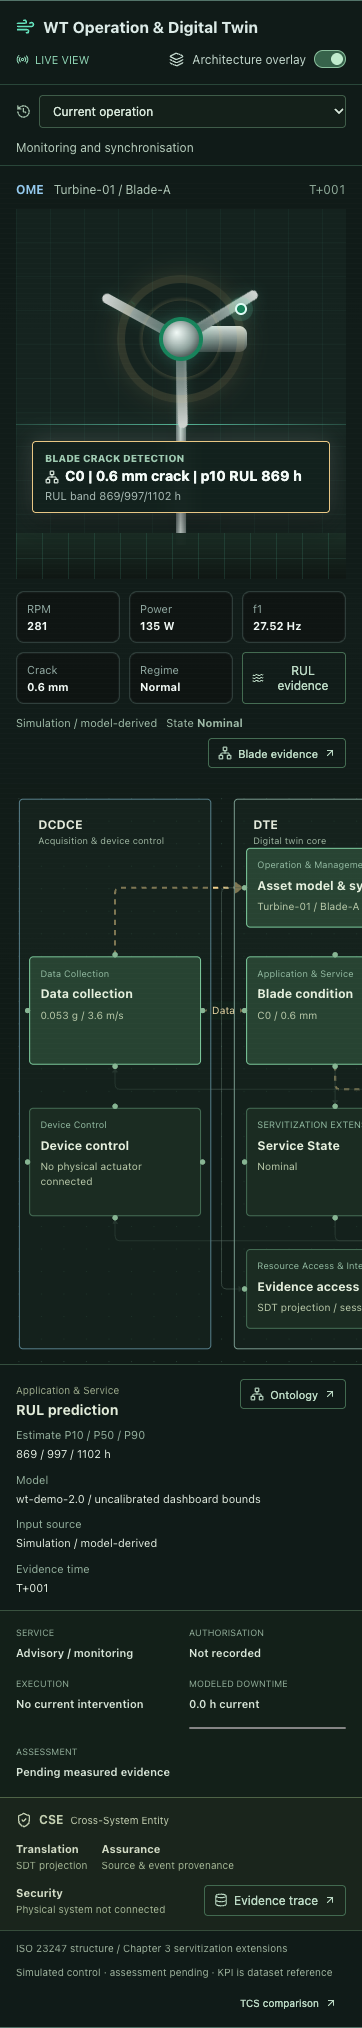
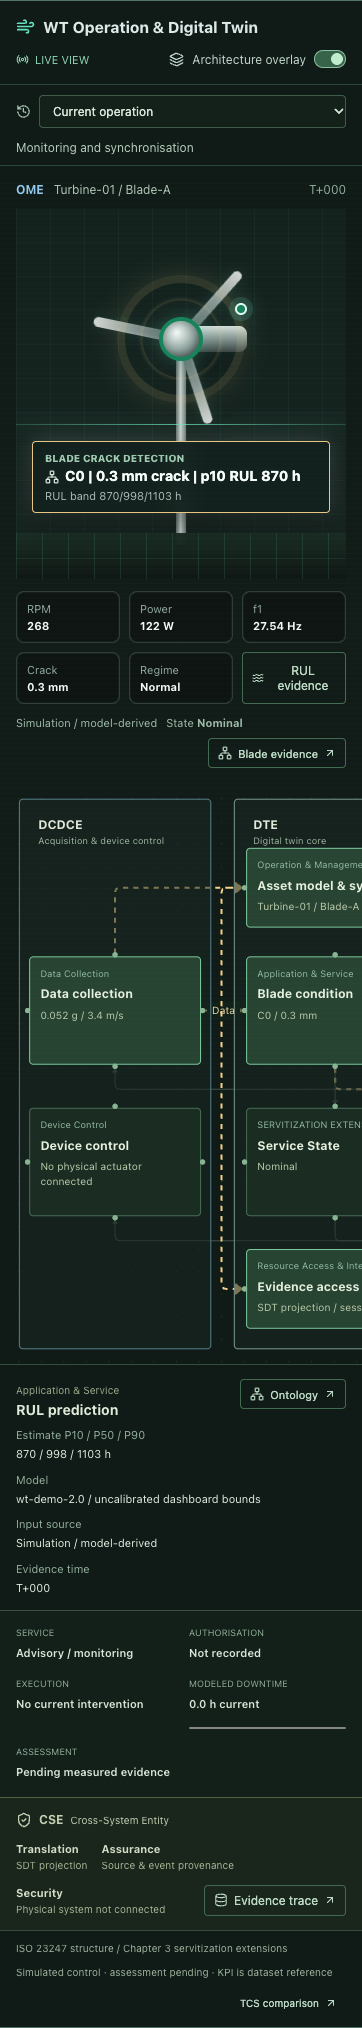
fix: preserve DT framework visibility through continuous turbine cycles
Retain controlled ReactFlow measurements, keep framework visible by default, and preserve monitoring links through decisions, downtime and post-service refresh. Verify actual node visibility and animated edges across two completed cycles on both routes; record root cause and regression screenshots.

diff --git a/src/twin/TwinWorkspace.tsx b/src/twin/TwinWorkspace.tsx
@@ -1,8 +1,8 @@
 import { useEffect, useMemo, useState, type ReactNode } from 'react';
-import ReactFlow, { Background, Handle, MarkerType, Position, type NodeProps, type Edge, type Node } from 'reactflow';
+import ReactFlow, { Background, Handle, MarkerType, Position, useNodesState, type NodeProps, type Edge, type Node } from 'reactflow';
 import { ArrowUpRight, ChevronLeft, ChevronRight, Database, History, Layers, Network, Pause, Play, Radio, RotateCcw, ShieldCheck, Wind } from 'lucide-react';
 import { evidenceSource, type OntologyExecution, type OntologySnapshot } from '../ontology/model';
-import { activeModules, architectureModules, moduleValue, replayFrames, stageLabel, workflowStage, type ArchitectureModule, type ModuleId, type ReplayFrame } from './model';
+import { activeConnections, activeModules, architectureModules, moduleValue, replayFrames, stageLabel, workflowStage, type ArchitectureModule, type ModuleId, type ReplayFrame } from './model';
 import './twin.css';
 
 export type ReplayRequest = { id: number; eventId: string };
@@ -60,11 +60,12 @@ export default function TwinWorkspace({ snapshot, executions, activeExecution, r
   onOntology: (node: string, eventId: string, snapshot?: OntologySnapshot, execution?: OntologyExecution) => void;
   onCosts: () => void;
 }) {
-  const [overlay, setOverlay] = useState(false);
+  const [overlay, setOverlay] = useState(true);
   const [selected, setSelected] = useState<ModuleId>('condition');
   const [replay, setReplay] = useState<OntologyExecution | null>(null);
   const [frameIndex, setFrameIndex] = useState(0);
   const [playing, setPlaying] = useState(false);
+  const [nodes, setNodes, onNodesChange] = useNodesState([]);
   const frames = useMemo(() => replay ? replayFrames(replay) : [], [replay]);
   function startReplay(event: OntologyExecution) {
     setReplay(structuredClone(event));
@@ -94,10 +95,11 @@ export default function TwinWorkspace({ snapshot, executions, activeExecution, r
   // During an intervention, its proposal stays anchored to the captured pre-service evidence.
   const decisionView = event && (stage === 'downtime' || stage === 'result') ? event.before : view;
   const active = activeModules(stage);
+  const connections = activeConnections(stage);
   const selection = architectureModules.find((module) => module.id === selected)!;
   const decisionModule = ['tcs', 'recommendation'].includes(selected);
   const inspected = decisionModule ? decisionView : view;
-  const progressH = frame?.elapsedH ?? activeExecution?.progress?.elapsedH ?? 0;
+  const progressH = frame?.elapsedH ?? event?.progress?.elapsedH ?? 0;
   const progress = event ? Math.min(100, (progressH / Math.max(0.1, event.downtimeH)) * 100) : 0;
   const streaming = !replay && view.reading.source !== 'manual-input';
   function selectModule(id: ModuleId) { setSelected(id); setOverlay(true); }
@@ -105,23 +107,30 @@ export default function TwinWorkspace({ snapshot, executions, activeExecution, r
     const evidence = replay ? view : stage === 'result' ? event?.after : stage === 'downtime' ? event?.during?.[event.during.length - 1] : undefined;
     navigateOntology(node, event?.id ?? eventId, evidence, event ?? undefined);
   }
-  const nodes: Node[] = [
+  const renderedNodes = useMemo<Node[]>(() => [
     { id: 'dcdce', type: 'group', position: { x: 0, y: 0 }, data: { label: <div className="twin-zone-label"><b>DCDCE</b><span>Acquisition & device control</span></div> }, style: { width: 188, height: 538, borderColor: '#557d88' }, selectable: false, focusable: false },
     { id: 'dte', type: 'group', position: { x: 210, y: 0 }, data: { label: <div className="twin-zone-label"><b>DTE</b><span>Digital twin core</span></div> }, style: { width: 390, height: 538, borderColor: '#76978b' }, selectable: false, focusable: false },
     { id: 'ue', type: 'group', position: { x: 622, y: 0 }, data: { label: <div className="twin-zone-label"><b>UE</b><span>Service & contract interface</span></div> }, style: { width: 198, height: 538, borderColor: '#ad9568' }, selectable: false, focusable: false },
     ...architectureModules.map((module) => ({ id: module.id, type: 'module', parentNode: module.entity, extent: 'parent' as const, position: { x: module.x, y: module.y }, data: { module, value: moduleValue(module.id, ['tcs', 'recommendation'].includes(module.id) ? decisionView : view, event, stage), active: active.includes(module.id), selected: module.id === selected }, style: { width: module.width, height: module.height }, ariaLabel: `${module.title}, ${module.subEntity}` }))
-  ];
+  ], [view, decisionView, event, selected, stage]);
+  useEffect(() => {
+    // Live data replaces node definitions; retain ReactFlow's measured dimensions.
+    setNodes((current) => {
+      const measured = new Map(current.map((node) => [node.id, node]));
+      return renderedNodes.map((node) => ({ ...node, width: measured.get(node.id)?.width, height: measured.get(node.id)?.height }));
+    });
+  }, [renderedNodes, setNodes]);
   const edges: Edge[] = relations.map(([source, target, label, from, to], index) => {
-    const highlighted = active.includes(source) && active.includes(target);
+    const highlighted = connections.some(([from, to]) => from === source && to === target);
     const pending = source === 'authorisation' || target === 'kpi';
-    return { id: `workflow-${index}`, source, target, sourceHandle: `source-${from}`, targetHandle: `target-${to}`, label: highlighted ? label : undefined, animated: highlighted && (streaming || playing), type: 'smoothstep', markerEnd: { type: MarkerType.ArrowClosed, color: highlighted ? '#f3d18b' : '#60776c' }, style: { stroke: highlighted ? '#f3d18b' : '#60776c', strokeWidth: highlighted ? 2 : 1, strokeDasharray: pending ? '4 4' : undefined, opacity: pending ? 0.4 : highlighted ? 1 : 0.45 }, labelStyle: { fill: '#e8d6a4', fontSize: 10 }, labelBgStyle: { fill: '#102019' }, labelBgPadding: [5, 3] };
+    return { id: `workflow-${index}`, source, target, sourceHandle: `source-${from}`, targetHandle: `target-${to}`, label: highlighted ? label : undefined, className: highlighted ? 'twin-flow-active' : undefined, animated: highlighted && (streaming || playing), type: 'smoothstep', markerEnd: { type: MarkerType.ArrowClosed, color: highlighted ? '#f3d18b' : '#60776c' }, style: { stroke: highlighted ? '#f3d18b' : '#60776c', strokeWidth: highlighted ? 2 : 1, strokeDasharray: pending ? '4 4' : undefined, opacity: pending ? 0.4 : highlighted ? 1 : 0.6 }, labelStyle: { fill: '#e8d6a4', fontSize: 10 }, labelBgStyle: { fill: '#102019' }, labelBgPadding: [5, 3] };
   });
-  return <section className={`twin-workspace ${overlay ? 'architecture-open' : ''} ${replay ? 'replay-mode' : ''}`} aria-label="Integrated wind turbine digital twin" id="twin-workspace">
+  return <section className={`twin-workspace ${overlay ? 'architecture-open' : ''} ${replay ? 'replay-mode' : ''}`} aria-label="Integrated wind turbine digital twin" id="twin-workspace" data-workflow-stage={stage}>
     <header className="twin-heading"><div className="section-title"><Wind size={19} /><h2>WT Operation & Digital Twin</h2></div><div className="twin-view-controls"><span className="twin-mode"><Radio size={13} />{replay ? 'EVENT REPLAY' : 'LIVE VIEW'}</span><label className="twin-toggle"><Layers size={15} /><span>Architecture overlay</span><input type="checkbox" role="switch" aria-label="Architecture overlay" checked={overlay} onChange={(e) => setOverlay(e.target.checked)} /><i /></label></div></header>
     <div className="twin-replay-toolbar"><label><History size={15} /><select aria-label="Wind turbine event replay" value={replay?.id ?? 'live'} onChange={(e) => { if (e.target.value === 'live') { setReplay(null); setPlaying(false); } else { const event = executions.find((entry) => entry.id === e.target.value); if (event) startReplay(event); } }}><option value="live">Current operation</option>{replay && !executions.some((entry) => entry.id === replay.id) && <option value={replay.id}>Pinned / {replay.label} / {replay.status}</option>}{executions.map((entry) => <option key={entry.id} value={entry.id}>{entry.before.reading.t} / {entry.label} / {entry.status}</option>)}</select></label><span className="twin-stage-label">{stageLabel(stage)}</span>{replay && <><button title="Return to live operation" aria-label="Return to live operation" onClick={() => { setReplay(null); setPlaying(false); }}><RotateCcw size={16} /></button><span className="twin-replay-boundary">Historical snapshot / live simulation continues</span></>}</div>
     <div className="twin-body">
       <div className="twin-physical"><div className="twin-entity-caption"><b>OME</b><span>{view.asset} / {view.component}</span><time>{view.reading.t}</time></div>{renderTurbine(view, selectModule, selected)}<div className="twin-physical-evidence"><span>{evidenceSource(view.reading)}</span><span>State <b>{view.serviceState}</b></span><button onClick={() => onOntology('condition', replay?.id ?? 'live')}><Network size={14} />Blade evidence<ArrowUpRight size={12} /></button></div></div>
-      {overlay ? <div className="twin-digital"><div className="twin-architecture-canvas" data-testid="twin-architecture"><ReactFlow style={{ width: 860, height: 580 }} nodes={nodes} edges={edges} nodeTypes={nodeTypes} fitView fitViewOptions={{ padding: 0.045 }} nodesDraggable={false} nodesConnectable={false} zoomOnScroll={false} panOnDrag={false} preventScrolling={false} onNodeClick={(_, node) => { if (architectureModules.some((module) => module.id === node.id)) setSelected(node.id as ModuleId); }} attributionPosition="bottom-left"><Background gap={22} color="#263e35" /></ReactFlow></div><div className="twin-module-detail" aria-label="Architecture module details"><div className="twin-detail-title"><div><span>{selection.subEntity}{selection.extension ? ' / research extension' : ''}</span><h3>{selection.title}</h3></div>{selection.ontologyNode && <button onClick={() => onOntology(selection.ontologyNode!, replay?.id ?? 'live')}><Network size={14} />Ontology<ArrowUpRight size={12} /></button>}</div><dl>{detailRows(selected, inspected, event).map((row) => <div key={row.label}><dt>{row.label}</dt><dd>{row.value}</dd></div>)}</dl></div></div> : <div className="twin-operation-summary"><span className="twin-summary-label">OPERATING EVIDENCE</span><dl><div><dt>Wind speed / direction</dt><dd>{view.reading.windSpeed.toFixed(1)} m/s / {view.reading.windDirection} deg</dd></div><div><dt>RUL P10 / P50 / P90</dt><dd>{view.reading.rulP10} / {view.reading.rulP50} / {view.reading.rulP90} h</dd></div><div><dt>Vibration RMS</dt><dd>{view.reading.vibrationRms.toFixed(3)} g</dd></div></dl><div className="twin-proposal"><span>{event ? 'Captured intervention proposal' : 'Current service recommendation'}</span><strong>{decisionView.recommendation.label}</strong><b>GBP {decisionView.recommendation.totalCost.toLocaleString('en-GB')}</b><small>{decisionView.recommendation.acceptable ? 'Residual-risk filter passed' : 'Minimum-cost fallback / risk filter not passed'}</small><button onClick={() => selectModule('tcs')}><Layers size={15} />Decision path</button></div></div>}
+      {overlay ? <div className="twin-digital"><div className="twin-architecture-canvas" data-testid="twin-architecture"><ReactFlow style={{ width: 860, height: 580 }} nodes={nodes} onNodesChange={onNodesChange} edges={edges} nodeTypes={nodeTypes} fitView fitViewOptions={{ padding: 0.045 }} nodesDraggable={false} nodesConnectable={false} zoomOnScroll={false} panOnDrag={false} preventScrolling={false} onNodeClick={(_, node) => { if (architectureModules.some((module) => module.id === node.id)) setSelected(node.id as ModuleId); }} attributionPosition="bottom-left"><Background gap={22} color="#263e35" /></ReactFlow></div><div className="twin-module-detail" aria-label="Architecture module details"><div className="twin-detail-title"><div><span>{selection.subEntity}{selection.extension ? ' / research extension' : ''}</span><h3>{selection.title}</h3></div>{selection.ontologyNode && <button onClick={() => onOntology(selection.ontologyNode!, replay?.id ?? 'live')}><Network size={14} />Ontology<ArrowUpRight size={12} /></button>}</div><dl>{detailRows(selected, inspected, event).map((row) => <div key={row.label}><dt>{row.label}</dt><dd>{row.value}</dd></div>)}</dl></div></div> : <div className="twin-operation-summary"><span className="twin-summary-label">OPERATING EVIDENCE</span><dl><div><dt>Wind speed / direction</dt><dd>{view.reading.windSpeed.toFixed(1)} m/s / {view.reading.windDirection} deg</dd></div><div><dt>RUL P10 / P50 / P90</dt><dd>{view.reading.rulP10} / {view.reading.rulP50} / {view.reading.rulP90} h</dd></div><div><dt>Vibration RMS</dt><dd>{view.reading.vibrationRms.toFixed(3)} g</dd></div></dl><div className="twin-proposal"><span>{event ? 'Captured intervention proposal' : 'Current service recommendation'}</span><strong>{decisionView.recommendation.label}</strong><b>GBP {decisionView.recommendation.totalCost.toLocaleString('en-GB')}</b><small>{decisionView.recommendation.acceptable ? 'Residual-risk filter passed' : 'Minimum-cost fallback / risk filter not passed'}</small><button onClick={() => selectModule('tcs')}><Layers size={15} />Decision path</button></div></div>}
     </div>
     {replay && <div className="twin-replay-player" aria-label="Service event replay controls"><button title="Previous recorded step" aria-label="Previous recorded step" disabled={frameIndex === 0} onClick={() => { setPlaying(false); setFrameIndex(Math.max(0, frameIndex - 1)); }}><ChevronLeft size={17} /></button><button title={playing ? 'Pause event replay' : 'Play event replay'} aria-label={playing ? 'Pause event replay' : 'Play event replay'} onClick={() => { if (!playing && frameIndex === frames.length - 1) setFrameIndex(0); setPlaying(!playing); }}>{playing ? <Pause size={17} /> : <Play size={17} />}</button><input type="range" aria-label="Recorded replay step" min={0} max={Math.max(0, frames.length - 1)} value={frameIndex} onChange={(e) => { setPlaying(false); setFrameIndex(Number(e.target.value)); }} /><button title="Next recorded step" aria-label="Next recorded step" disabled={frameIndex >= frames.length - 1} onClick={() => { setPlaying(false); setFrameIndex(Math.min(frames.length - 1, frameIndex + 1)); }}><ChevronRight size={17} /></button><span>{frameIndex + 1} / {frames.length} · {frame?.label}</span></div>}
     <div className="twin-service-loop"><div><span>SERVICE</span><strong>{event ? event.label : 'Advisory / monitoring'}</strong></div><div><span>AUTHORISATION</span><strong>Not recorded</strong></div><div><span>EXECUTION</span><strong>{event?.status === 'interrupted' ? 'Interrupted / no repair result' : stage === 'downtime' ? 'Simulated downtime' : stage === 'result' ? 'Simulated completion' : 'No current intervention'}</strong></div><div className="twin-downtime"><span>MODELED DOWNTIME</span><strong>{event ? `${progressH.toFixed(1)} / ${event.downtimeH.toFixed(1)} h` : '0.0 h current'}</strong><progress aria-label="Modeled service downtime" max={100} value={progress} /></div><div><span>ASSESSMENT</span><strong>Pending measured evidence</strong></div></div>

diff --git a/src/twin/model.ts b/src/twin/model.ts
@@ -39,10 +39,17 @@ export function replayFrames(execution: OntologyExecution): ReplayFrame[] {
 }
 
 export function activeModules(stage: WorkflowStage): ModuleId[] {
-  if (stage === 'downtime') return ['control', 'execution'];
-  if (stage === 'result') return ['collection', 'registry', 'condition'];
-  if (stage === 'decision') return ['state', 'tcs', 'recommendation'];
-  return ['collection', 'registry', 'condition', 'rul'];
+  return [...new Set(activeConnections(stage).flatMap(([source, target]) => [source, target]))];
+}
+
+export function activeConnections(stage: WorkflowStage): [ModuleId, ModuleId][] {
+  const acquisition: [ModuleId, ModuleId][] = [['collection', 'registry'], ['registry', 'access']];
+  // Acquisition remains active while a proposal or simulated intervention is processed.
+  if (stage === 'downtime') return [...acquisition, ['recommendation', 'execution'], ['execution', 'control']];
+  const monitoring: [ModuleId, ModuleId][] = [...acquisition, ['collection', 'condition'], ['condition', 'rul']];
+  if (stage === 'result') return [...monitoring, ['execution', 'collection'], ['condition', 'state']];
+  if (stage === 'decision') return [...monitoring, ['condition', 'state'], ['rul', 'tcs'], ['state', 'tcs'], ['tcs', 'recommendation']];
+  return monitoring;
 }
 
 export function moduleValue(id: ModuleId, snapshot: OntologySnapshot, execution: OntologyExecution | null, stage: WorkflowStage): string {

diff --git a/README.md b/README.md
@@ -45,13 +45,15 @@ Design, implementation, changes and validation evidence: [implementation log](do
 
 ## Integrated Digital Twin Workspace
 
-Both routes now start with **WT Operation & Digital Twin**. The default view keeps the existing animated turbine alongside live operating evidence and the current service proposal. Turn on **Architecture overlay** to inspect OME, DCDCE, DTE, UE and the cross-system CSE band. DTE separates Operation & Management, Application & Service, and Resource Access & Interchange. Service-state, TCS, authorisation and contract modules are marked as research extensions, not additional ISO-mandated entities.
+Both routes start with **WT Operation & Digital Twin**, with the animated turbine and **Architecture overlay** visible by default. The framework stays visible across monitoring, decisions, maintenance, post-service updates and subsequent cycles; only the user can hide it. Inspect OME, DCDCE, DTE, UE and the cross-system CSE band. DTE separates Operation & Management, Application & Service, and Resource Access & Interchange. Service-state, TCS, authorisation and contract modules are research extensions, not additional ISO-mandated entities.
 
 Select the blade or **RUL evidence** to highlight the matching architecture module. Node details link to the ontology evidence, and the live TCS link opens the comparison section. Once an automatic intervention is recorded, choose it from the event selector or use **Replay on turbine** in Decision Trace. Step, play or pause the recorded pre-service, downtime and post-service snapshots; **Return to live operation** restores current readings. The rest of the dashboard remains live during replay, clearly separated from the historical workspace.
 
 Replay uses the same bounded session event store as ontology. Original intervention costs / recommendation are preserved even when post-service readings imply a new recommendation. Downtime hours are compressed model time, not elapsed real hours. The replay is a recorded simulation walkthrough, not a measured execution trace or engine performance profile. Authorization, physical actuation and measured outcome assessment are not connected. Contract KPI remains a Chapter 5 dataset reference. Manual scenarios still use the existing input window and do not auto-execute services.
 
 Design and process record: [workspace specification](docs/twin/DESIGN.md), [implementation log](docs/twin/IMPLEMENTATION_LOG.md), [browser verification](screenshots/twin/verification.json), [public verification](screenshots/twin/publication.json).
+
+Continuous Framework fix: [root cause and repair](docs/twin/FRAMEWORK_CONTINUITY_FIX.md), [two-cycle visibility/flow regression](screenshots/framework/verification.json). New telemetry preserves measured graph dimensions; completion does not hide the framework or stop live monitoring flow.
 
 ![Integrated architecture](screenshots/twin/architecture-desktop.png)
 
@@ -106,6 +108,7 @@ Browser verification requires Playwright and a Chromium browser. With Playwright
 node scripts/verify-ontology-ui.mjs
 node scripts/verify-twin-ui.mjs
 node scripts/verify-fixes-ui.mjs
+node scripts/verify-framework-cycle.mjs
 ```
 
 Environment variables: `PLAYWRIGHT_MODULE` (absolute installed Playwright module path), `CHROME_EXECUTABLE` (browser executable), and optional `DASHBOARD_URL` (default `http://127.0.0.1:5173/`). The repair verification script uses the first two variables; other browser scripts can use a normally installed Playwright package. Results are saved under `screenshots/ontology/`, `screenshots/twin/` and `screenshots/fixes/`. Tests accelerate only the simulator in isolated tabs; normal application timing is unchanged.

diff --git a/docs/twin/FRAMEWORK_CONTINUITY_FIX.md b/docs/twin/FRAMEWORK_CONTINUITY_FIX.md
@@ -1,0 +1,22 @@
+# Framework Continuity Fix - 2026-10-02
+
+## Report and Root Cause
+
+The user reported that the DT Framework disappears after a cycle and requested continuous workflow display alongside turbine operation. No stage-triggered `setOverlay(false)` call existed. A continuous-update browser reproduction identified the actual renderer problem: controlled node definitions were regenerated on telemetry updates without carrying ReactFlow's measured `width`/`height`. The installed ReactFlow v11 `createNodeInternals` takes dimensions from those definitions; missing dimensions make NodeWrapper render `visibility: hidden` and prevent edges from rendering. DOM node counts alone did not detect this earlier.
+
+There was also a presentation gap: decision highlighting replaced monitoring, and result highlighting lasted only one reading. The default overlay was off.
+
+## Changes
+
+- Keep controlled nodes in `useNodesState`, apply measurement changes with `onNodesChange`, and merge measured dimensions into new telemetry definitions. Preserve node identity and viewport while updating values.
+- Show the framework by default. Completion, new readings, replay completion and return to live do not close it; explicit user hiding remains supported.
+- Define active connections explicitly. Acquisition/synchronisation/evidence access remain active; operating monitoring and RUL continue during decision-making. Downtime highlights recorded execution/hold, not fabricated new RUL inference. Result connects execution back to post-service collection and refreshed condition/RUL/state, then the next readings continue normal workflow.
+- Missing authorisation and reference-only contract KPI remain inactive. No new real control, measured assessment or calibrated model evidence is asserted.
+
+## Verification
+
+`scripts/verify-framework-cycle.mjs` samples the standard and enhanced routes every 25 ms during two complete automatic maintenance cycles. It checks all 12 nodes' actual CSS visibility, active/animated edges through every stage, post-service rotor motion, 1024/390 px UE reachability and explicit hide/show behavior. Only simulator ticks are accelerated in isolated tabs; normal timing is unchanged. Screenshots/results: `screenshots/framework/`.
+
+`test:twin` adds a repeated-cycle connection regression. Existing model, ontology and replay tests remain applicable. The production bundle warning is unchanged. Publication uses the existing GitHub Pages workflow.
+
+Local verification passed: 6 twin tests, 11 model tests and 5 ontology tests; production build; existing twin/replay browser regression and the new continuity test. The final continuity run sampled 402 standard and 404 enhanced observations spanning monitor, decision, downtime and result, including operation after two completions, without hidden modules or lost active edges. The new test also checks actual inherited CSS visibility, not just mounted node counts.

diff --git a/docs/twin/DESIGN.md b/docs/twin/DESIGN.md
@@ -31,12 +31,12 @@ CSE is not a final serial processing step. Security Support and real Device Cont
 
 Flow highlights derive from actual recorded mode / policy state, replacing the former six-node clock-cycling highlight:
 
-- Monitoring: acquisition, registration, condition and RUL.
-- Decision available: Service State, TCS and recommendation.
-- Downtime: execution and simulated device hold (RPM / power target zero).
-- Result: post-service collection, synchronisation and condition refresh.
+- Monitoring: acquisition, registration, evidence access, condition and RUL.
+- Decision available: monitoring continues, with Service State, TCS and recommendation added.
+- Downtime: acquisition/registration/access continue alongside recorded recommendation, execution and simulated hold (RPM / power target zero); no new RUL computation is implied for held pre-service readings.
+- Result: execution -> post-service collection, synchronisation, condition, RUL and state refresh; subsequent readings continue monitoring/decision flow.
 
-Highlighting is a workflow visualization, not instrumentation proving that a model ran at that instant. Recommendation does not itself prove execution. Dashed authorisation / contract paths remain pending / reference-only. The existing TCS policy, crack thresholds and repair model are unchanged.
+Highlighting is workflow visualization, not instrumentation proving a model ran at that instant. Recommendation does not prove execution. Dashed authorisation / contract paths remain pending / reference-only. This display fix does not alter `wt-demo-2.0` policy, thresholds or repair effects. Controlled ReactFlow nodes retain measured dimensions through `useNodesState` / `onNodesChange`; new telemetry updates data without resetting node initialization.
 
 ## Shared event model and replay
 
@@ -48,8 +48,8 @@ The turbine reuses the existing smooth requestAnimationFrame rotor and crack rep
 
 ## Layout and interaction
 
-- Default: unframed physical view and operating / proposal summary.
-- Overlay: physical view and fixed-coordinate architecture with a detail inspector below the graph.
+- Default: physical view and continuously visible fixed-coordinate architecture with a detail inspector.
+- Explicitly hide overlay: physical view and operating / proposal summary; simulation ticks never toggle the user's display choice.
 - Lower band: service, authorisation, execution, modeled downtime and assessment status.
 - CSE is a cross-system band below the loop, not an entity in the serial flow.
 - Supporting map and service decision share a row; TCS spans the full width; duplicate static architecture and old animated chain removed.
